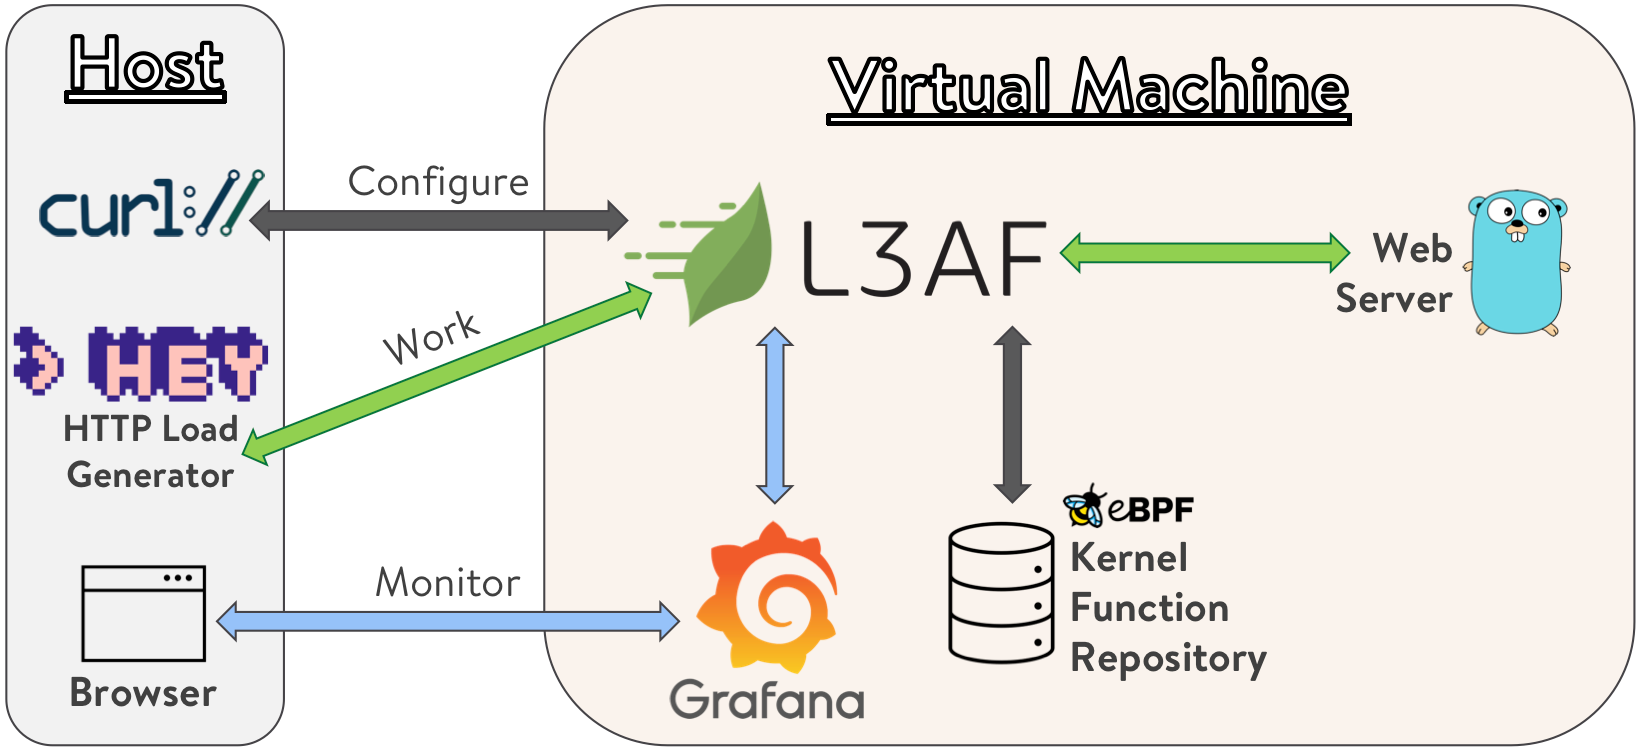
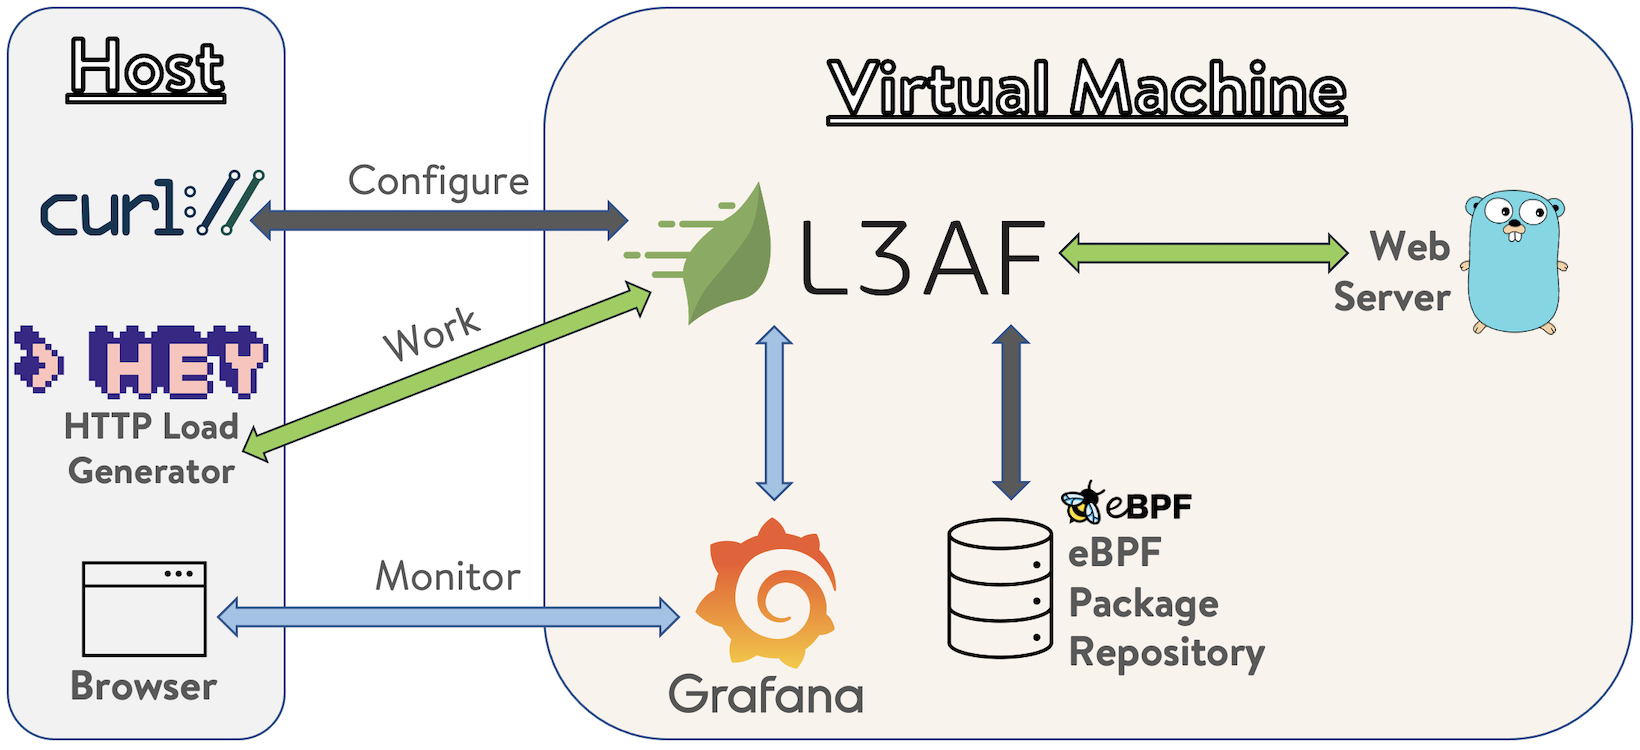
Minor doc fixes

diff --git a/dev_environment/README.md b/dev_environment/README.md
@@ -7,11 +7,10 @@ machine environment that allows users to develop, test, or just try out L3AF.
 
 The L3AF dev environment automation sets up a virtual machine that contains:
 
-* Dependencies required to build L3AFD and Kernel Functions (i.e., eBPF
-  programs)
+* Dependencies required to build L3AFD and eBPF programs
 * Simple web servers (written in Go) to which test traffic can be sent
 * Prometheus and Grafana for metrics
-* A local Kernel Function repository (simple Python file server)
+* A local eBPF Package Repository (simple Python file server)
 
 The host machine can access various services on the virtual machine via
 user-configured ports.
@@ -46,7 +45,7 @@ Here is a visual overview:
 * On the VM, go to `~/code/l3afd` and run `go install .`
 * On the VM, go to `~/go/bin` and run `l3afd` as root:
   `sudo ./l3afd --config /vagrant/cfg/l3afd.cfg`
-* On the host, configure L3AFD to execute sample Kernel Functions by running
+* On the host, configure L3AFD to execute sample eBPF programs by running
   `curl -X POST http://localhost:37080/l3af/configs/v1/update -d
   "@cfg/payload.json"`.  The `payload.json` file can be inspected and modified
   as desired. For more information on the L3AFD API see the [L3AFD API
@@ -56,8 +55,8 @@ Here is a visual overview:
   command assumes `enp0s3` is a valid network interface on the VM.
 * Once again send traffic to the VM web server:
   `hey -n 200 -c 20 http://localhost:18080`. The traffic will now be running
-  through the Kernel Functions (which may affect results dramatically depending
-  on which Kernel Functions are running and how they are configured).
-* To see the Kernel Function metrics, browse to `http://localhost:33000` on the
+  through the eBPF programs (which may affect results dramatically depending
+  on which eBPF programs are running and how they are configured).
+* To see the eBPF program metrics, browse to `http://localhost:33000` on the
   host and login to Grafana with the default username and password of `admin`.
   After logging in you will be able to view the preconfigured dashboards.
